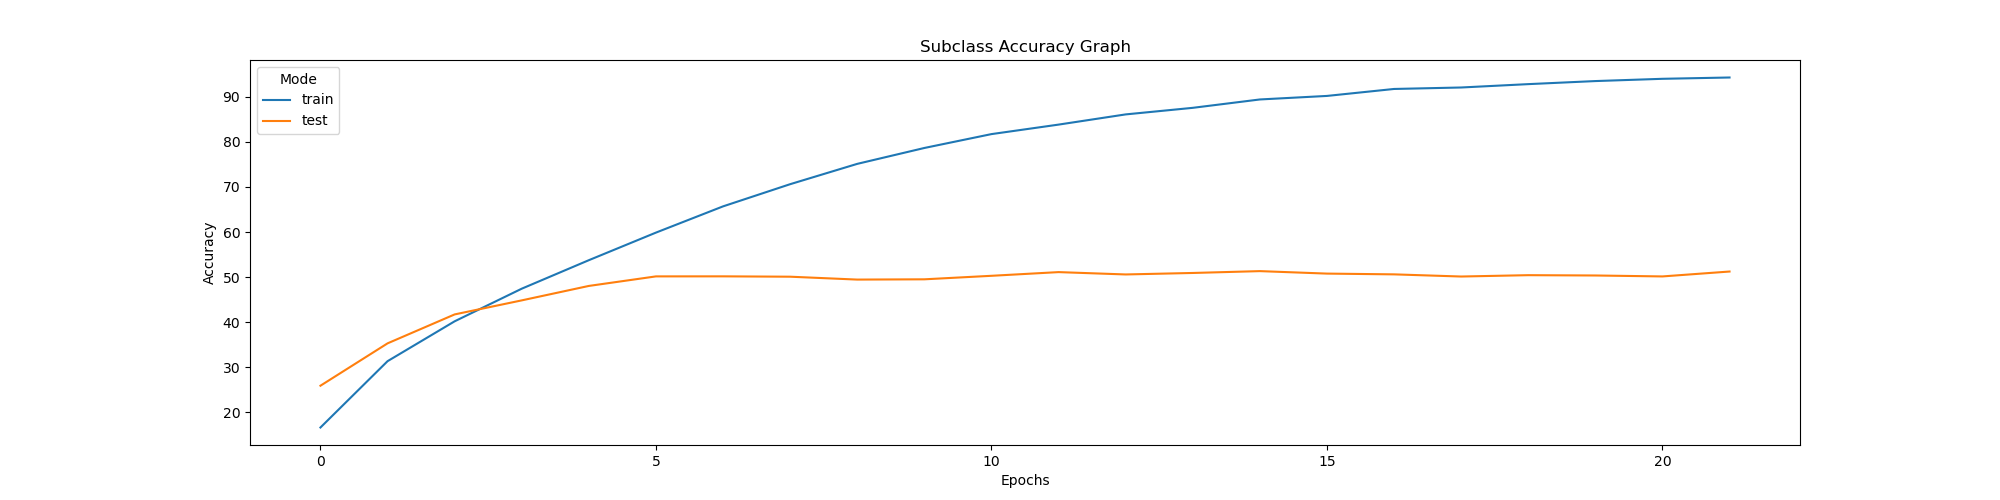
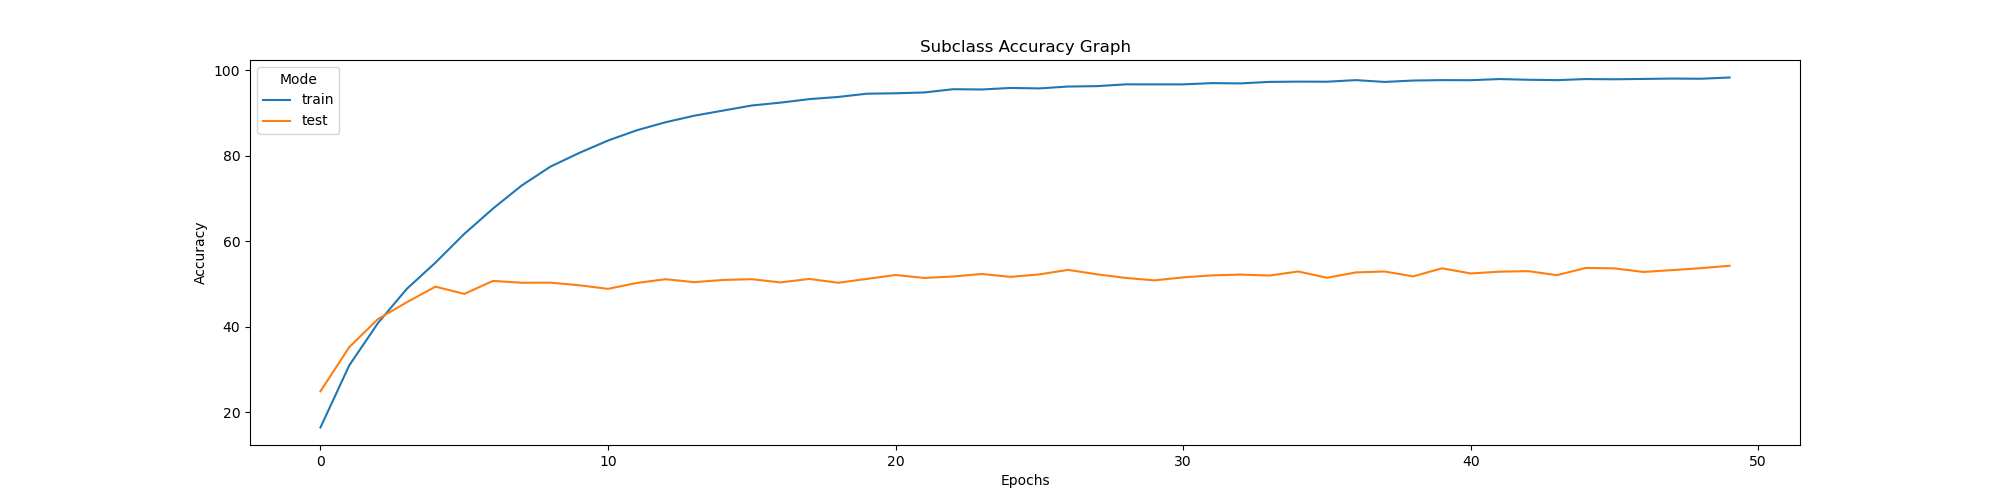
modified loss func

diff --git a/model/resnet50.py b/model/resnet50.py
@@ -69,11 +69,10 @@ class ResNet50(nn.Module):
 
         self.conv_block1 = nn.Sequential(nn.Conv2d(kernel_size=3, stride=1, in_channels=image_depth, out_channels=self.in_channels, padding=1, bias=False),
                                             nn.BatchNorm2d(self.in_channels),
-                                            nn.ReLU(inplace=True),
-                                            nn.MaxPool2d(stride=2, kernel_size=2))
+                                            nn.ReLU(inplace=True))
 
         self.layer1 = self.make_layer(out_channels=64, num_blocks=self.num_blocks[0], stride=1, use_cbam=use_cbam)
-        self.layer2 = self.make_layer(out_channels=128, num_blocks=self.num_blocks[1], stride=1, use_cbam=use_cbam)
+        self.layer2 = self.make_layer(out_channels=128, num_blocks=self.num_blocks[1], stride=2, use_cbam=use_cbam)
         self.layer3 = self.make_layer(out_channels=256, num_blocks=self.num_blocks[2], stride=1, use_cbam=use_cbam)
         self.layer4 = self.make_layer(out_channels=512, num_blocks=self.num_blocks[3], stride=2, use_cbam=use_cbam)
         self.avgpool = nn.AvgPool2d(7)

diff --git a/model/hierarchical_loss.py b/model/hierarchical_loss.py
@@ -70,6 +70,6 @@ class HierarchicalLossNetwork:
             l_prev = torch.where(prev_lvl_pred == true_labels[l-1], torch.FloatTensor([0]).to(self.device), torch.FloatTensor([1]).to(self.device))
             l_curr = torch.where(current_lvl_pred == true_labels[l], torch.FloatTensor([0]).to(self.device), torch.FloatTensor([1]).to(self.device))
 
-            dloss += torch.sum(-1*torch.pow(self.p_loss, D_l*l_prev)*torch.pow(self.p_loss, D_l*l_curr))
+            dloss += torch.sum(torch.pow(self.p_loss, D_l*l_prev)*torch.pow(self.p_loss, D_l*l_curr) - 1)
 
         return self.beta * dloss

diff --git a/train.py b/train.py
@@ -54,6 +54,7 @@ for epoch_idx in range(args.epoch):
     epoch_superclass_accuracy = []
     epoch_subclass_accuracy = []
 
+    model.train()
     for i, sample in tqdm(enumerate(train_generator)):
 
 
@@ -90,6 +91,7 @@ for epoch_idx in range(args.epoch):
     epoch_superclass_accuracy = []
     epoch_subclass_accuracy = []
 
+    model.eval()
     with torch.set_grad_enabled(False):
         for j, sample in tqdm(enumerate(test_generator)):
 
